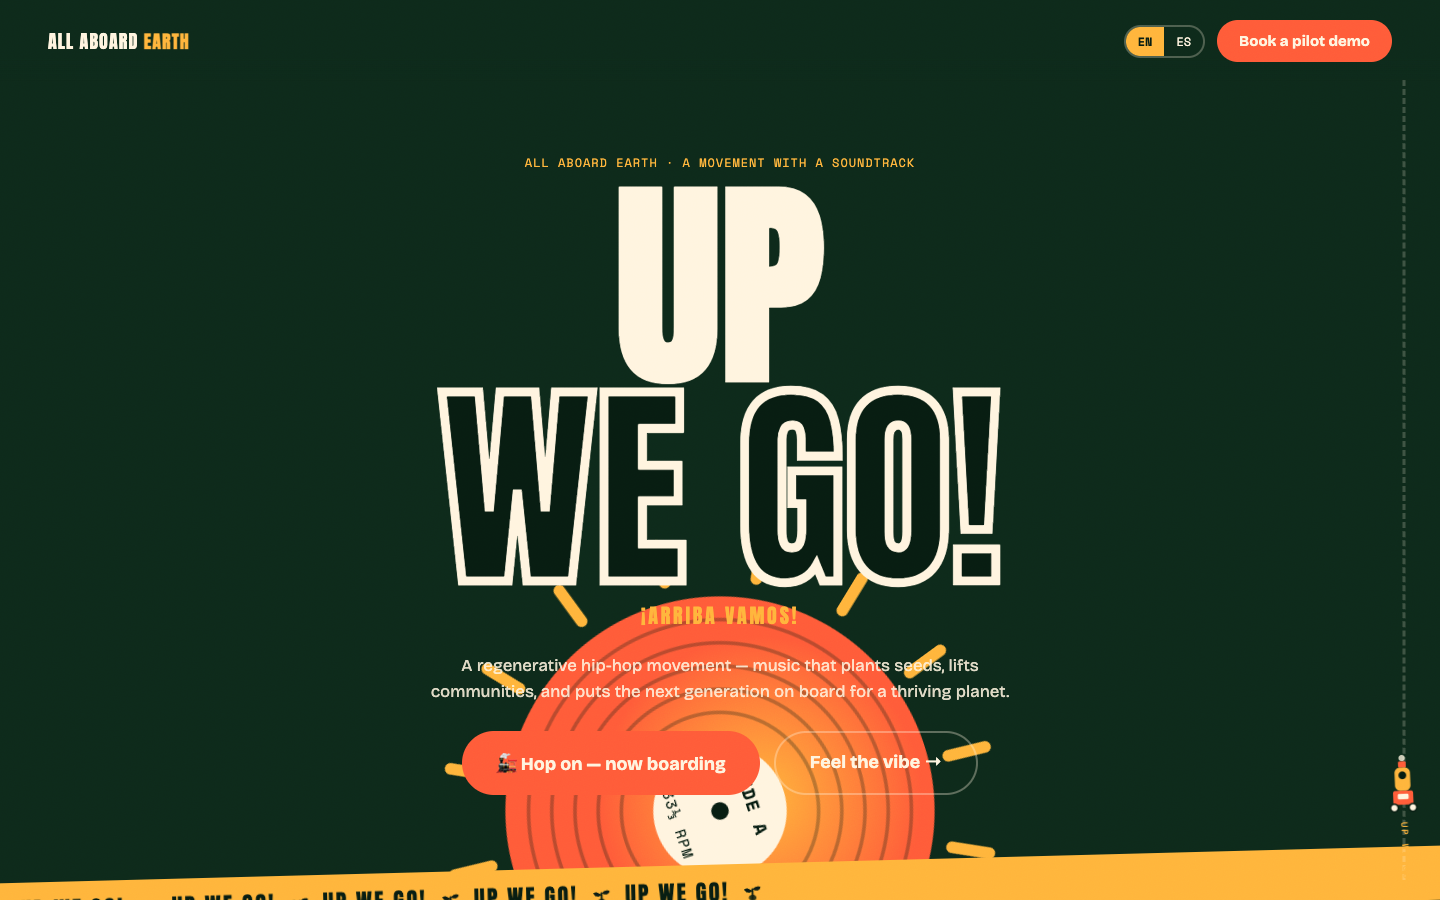
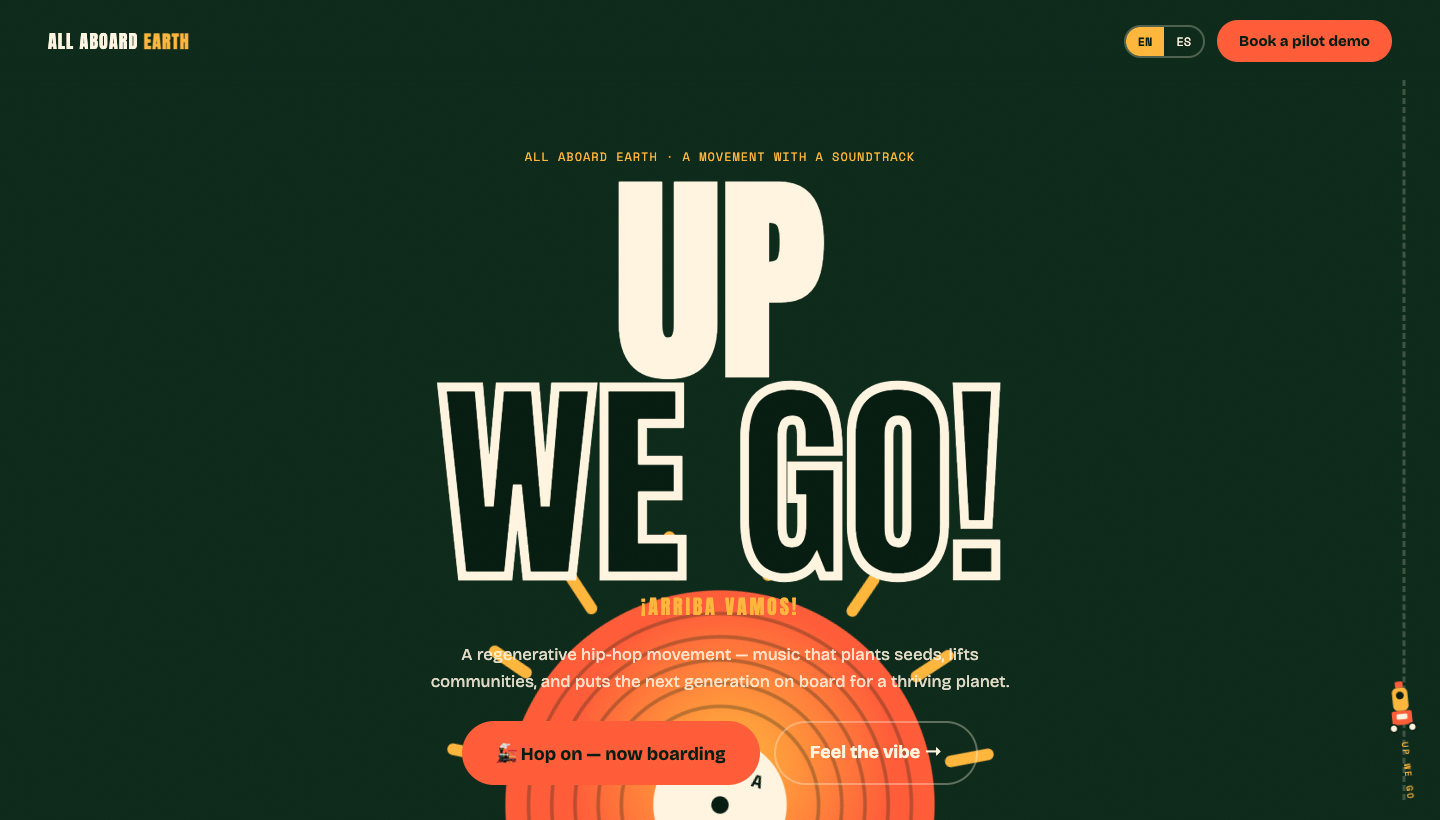
Clear the last WCAG AA failure and mirror the mission in Spanish
Button text moves from Cream to Pine Deep on Coral: 2.81:1 -> 5.73:1,
over the 4.5:1 AA bar. Ghost buttons and the CTA band explicitly keep
Cream because they sit on dark grounds, where they measure 14.1:1 and
16.1:1 - without pinning them they would have inherited Pine Deep and
gone nearly invisible.

The Spanish hero carried the older crew line while English carried the
new mission; it now mirrors it.

diff --git a/src/AllAboardEarthPrototype.jsx b/src/AllAboardEarthPrototype.jsx
@@ -129,7 +129,7 @@ const copy = {
     hero_line1: "¡ARRIBA",
     hero_line2: "VAMOS!",
     hero_sub:
-      "Somos el equipo que convierte el cuidado de la Tierra en cultura — hip-hop, historias, juegos y productos que hacen subir al planeta (y a la gente). Toma asiento. La Tierra entera va a bordo.",
+      "Un movimiento de hip-hop regenerativo — música que siembra semillas, levanta comunidades y sube a la próxima generación a bordo rumbo a un planeta próspero.",
     hero_cta: "🚂 Súbete — estamos abordando",
     hero_cta2: "Siente la vibra →",
     marquee: "¡ARRIBA VAMOS! · UP WE GO! · ¡ARRIBA VAMOS! · UP WE GO! · ",
@@ -576,10 +576,10 @@ export default function App() {
         .lang{ display:flex; border:2px solid ${T.cream}44; border-radius:999px; overflow:hidden; }
         .lang button{ background:none; border:none; color:${T.cream}; font-family:'Space Mono'; font-size:12px; padding:6px 12px; cursor:pointer; }
         .lang button.on{ background:${T.marigold}; color:${T.pineDeep}; font-weight:700; }
-        .btn{ display:inline-block; background:${T.coral}; color:${T.cream}; border:none; border-radius:999px; padding:12px 22px; font-family:'Bricolage Grotesque'; font-weight:700; font-size:15px; cursor:pointer; transition:transform .2s var(--ease-settle); box-shadow:0 0 0 0 ${T.coral}55; }
+        .btn{ display:inline-block; background:${T.coral}; color:${T.pineDeep}; border:none; border-radius:999px; padding:12px 22px; font-family:'Bricolage Grotesque'; font-weight:700; font-size:15px; cursor:pointer; transition:transform .2s var(--ease-settle); box-shadow:0 0 0 0 ${T.coral}55; }
         .btn:hover{ transform:translateY(-3px) rotate(-1deg); box-shadow:0 10px 24px ${T.coral}55; }
         .btn.big{ padding:18px 34px; font-size:18px; }
-        .btn.ghost{ background:transparent; border:2px solid ${T.cream}55; box-shadow:none; }
+        .btn.ghost{ background:transparent; color:${T.cream}; border:2px solid ${T.cream}55; box-shadow:none; }
         .btn.ghost:hover{ border-color:${T.marigold}; color:${T.marigold}; }
         a.btn{ text-decoration:none; }
         .hero-accent{ position:relative; z-index:2; font-family:'Anton'; color:${T.marigold}; font-size:clamp(14px,2.2vw,20px); letter-spacing:.14em; margin-top:10px; line-height:26px; min-height:26px; }
@@ -790,7 +790,7 @@ export default function App() {
         .ctaband h2{ font-size:clamp(34px,6vw,66px); }
         .ctaband p{ margin:16px 0 26px; font-size:17px; font-weight:600; }
         .ctaband .mono{ display:block; margin-top:16px; opacity:.75; }
-        .ctaband .btn{ background:${T.pineDeep}; }
+        .ctaband .btn{ background:${T.pineDeep}; color:${T.cream}; }
 
         footer .roots{ width:120px; margin:0 auto 10px; }
         .footer-give{ margin-top:10px; }

diff --git a/MISSING_ART.md b/MISSING_ART.md
@@ -65,11 +65,11 @@ stable run to run.
 
 ## Open for Michael
 
-1. **Button contrast fails WCAG AA** and is the only thing holding accessibility
-   at 93. Cream text on Coral (`.btn`) is about 2.6:1; AA wants 4.5:1 for body
-   text and 3:1 for large. This is a brand-colour call, so nothing was changed.
-   Switching button text from Cream to Pine Deep clears it comfortably and keeps
-   both brand colours. Lighthouse also flags the outlined "WE GO!" headline,
-   which is a deliberate effect it cannot evaluate — ignore that one.
-2. **Spanish body copy** still differs from English in the hero (`hero_sub`);
-   ES card names, marquee and footer were updated, the mission paragraph was not.
+Nothing outstanding. Button contrast and the Spanish mission line were both
+resolved on 2026-09-11:
+
+- `.btn` text moved from Cream to Pine Deep on Coral, 2.81:1 -> 5.73:1, clearing
+  WCAG AA. Ghost buttons and the CTA band keep Cream, since both sit on dark
+  grounds (14.1:1 and 16.1:1).
+- The Spanish hero now mirrors the English mission rather than carrying the
+  older, longer crew line.
